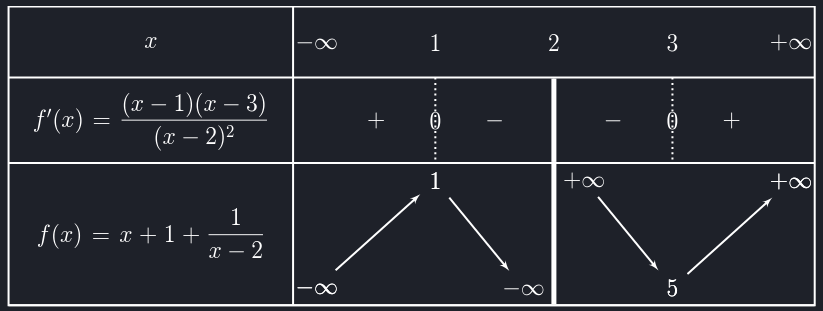
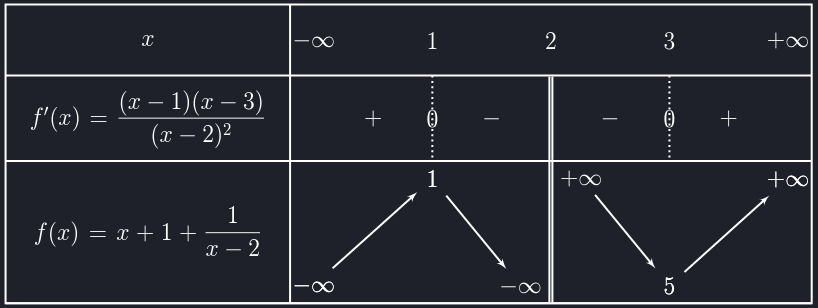
v1.0.6 Fix Forbidden Values Background Color in Dark Mode

diff --git a/src/index.js b/src/index.js
@@ -374,7 +374,7 @@ const createBrokenImageElement = () => {
 const createBrokenImage = () => {
     const wrapper = document.createElement('span');
 
-    wrapper.className = 'tikzjax-wrapper tikzjax-broken-wrapper';
+    wrapper.className = 'tikzjax-wrapper tikzjax-broken-wrapper mathjax_ignore';
 
     wrapper.style.display = 'block';
     wrapper.style.width = '100%';
@@ -422,6 +422,37 @@ const isWhiteValue = (value) => {
         v === 'rgb(255,255,255)' ||
         v === 'rgb(255, 255, 255)'
     );
+};
+
+const isTransparentValue = (value) => {
+    if (!value) return true;
+
+    const v = value.trim().toLowerCase();
+
+    return (
+        v === 'transparent' ||
+        v === 'initial' ||
+        v === 'inherit' ||
+        /^rgba\(\s*0\s*,\s*0\s*,\s*0\s*,\s*0(?:\.0+)?\s*\)$/.test(v) ||
+        /^rgba\(.*?,\s*0(?:\.0+)?\s*\)$/.test(v)
+    );
+};
+
+const getEffectiveBackgroundColor = (element, fallbackTheme = 'light') => {
+    let node = element;
+
+    while (node) {
+        const computed = window.getComputedStyle(node);
+        const backgroundColor = computed.backgroundColor;
+
+        if (backgroundColor && !isTransparentValue(backgroundColor)) {
+            return backgroundColor;
+        }
+
+        node = node.parentElement;
+    }
+
+    return fallbackTheme === 'dark' ? '#000000' : '#ffffff';
 };
 
 const isTextNode = (node) => {
@@ -475,6 +506,11 @@ const normalizeStyleForTheme = (styleText, node) => {
         );
     }
 
+    result = result.replace(
+        /stroke\s*:\s*(white|#ffffff|#fff|rgb\(255,\s*255,\s*255\))\b/gi,
+        'stroke: var(--tikzjax-background-color)'
+    );
+
     return result;
 };
 
@@ -506,6 +542,8 @@ const normalizeSvgForTheme = (svg) => {
 
                 if (isBlackValue(stroke)) {
                     node.setAttribute('stroke', 'currentColor');
+                } else if (isWhiteValue(stroke)) {
+                    node.setAttribute('stroke', 'var(--tikzjax-background-color)');
                 }
             }
 
@@ -658,9 +696,12 @@ const getThemeForWrapper = (wrapper) => {
 
 const applyThemeToTikz = (root = document) => {
     getTikzWrappers(root).forEach((wrapper) => {
-        const isDark = getThemeForWrapper(wrapper) === 'dark';
+        const theme = getThemeForWrapper(wrapper);
+        const isDark = theme === 'dark';
+        const backgroundColor = getEffectiveBackgroundColor(wrapper, theme);
 
         wrapper.style.color = isDark ? '#ffffff' : '#000000';
+        wrapper.style.setProperty('--tikzjax-background-color', backgroundColor);
 
         wrapper.querySelectorAll('svg').forEach((svg) => {
             normalizeSvgForTheme(svg);
@@ -945,7 +986,7 @@ const handleMkDocsTabsInteraction = (event) => {
 // =================================================
 const wrapSvg = (svg) => {
     const wrapper = document.createElement('span');
-    wrapper.className = 'tikzjax-wrapper';
+    wrapper.className = 'tikzjax-wrapper mathjax_ignore';
 
     wrapper.appendChild(svg);
 
@@ -1015,7 +1056,7 @@ const processTikzSources = async (sources) => {
         const loader = createLoader(elt.dataset || {});
 
         const wrapper = document.createElement('span');
-        wrapper.className = 'tikzjax-wrapper tikzjax-loading';
+        wrapper.className = 'tikzjax-wrapper tikzjax-loading mathjax_ignore';
         wrapper.style.display = 'inline-flex';
         wrapper.style.alignItems = 'center';
         wrapper.style.justifyContent = 'center';

diff --git a/site/docs/installation.md b/site/docs/installation.md
@@ -149,11 +149,13 @@ The page shows how to integrate on your custom project.
             - local/path/to/your/tikzjax.config.js
             ```
 
-### 2.2 `mkdocs.yml`: superfences
+### 2.2 `mkdocs.yml` & Superfences
 
 !!! success "Superfences Config for `tikzjax` bloc codes"
+    If you already added the 2/3 CDN config lines to your `main.html`, then :
+
     * TikZJax is already working with the `<script type="text/tikz">` syntax.
-    * However, if you wish to also use the `tikzjax` code block syntax inside MkDocs, then you MUST add a **superfences** entry in your `mkdocs.yml`:
+    * However, IF you also wish to use the `tikzjax` code block syntax inside MkDocs, then you MUST add a **superfences** entry in your `mkdocs.yml`. So, technically, Adding the following config lines for superfences in `mkdocs.yml` is OPTIONAL : TO BE ADDED ONLY IF YOU PLAN TO USE tikzjax code blocks inside markdown pages :
 
     ````yaml
     markdown_extensions:
@@ -166,9 +168,15 @@ The page shows how to integrate on your custom project.
 
 Hereafter are some config examples for `mkdocs.yml`, which all use an existing `overrides/main.html` file (if you have already none, otherwise, create it, you may customize your personal `custom_dir` in your `mkdocs.yml` as you wish):
 
-!!! warning
-    * Please note that, stricto sensu, the following extensions ARE NOT REQUIRED for the **TikZJax** project to work in MkDocs (which should work perfectly without those) :
-        * loading **MathJax** as CDN, IS NOT REQUIRED (math formulas should render correctly inside math variations tables and math sign tables, without MathJaX)
+!!! danger "Minimal `mkdocs.yml` & MathJax Conflicts"
+    * Please note that, stricto sensu, the following extensions ARE NOT REQUIRED for the **TikZJax** project to work in MkDocs :
+        * **MathJax** is **NOT REQUIRED** stricto sensu. Adding **MathJax** configs in `mkdocs.yml` **IS OPTIONAL AND TOTALLY INDEPENDANT** of [![Repo](https://img.shields.io/badge/GitHub-rod2ik%2Ftikzjax-181717?logo=github&logoColor=white)](https://github.com/rod2ik/tikzjax) : 
+            * Mathjax is for rendering Maths **OUTSIDE** maths variations/sign tables
+            * TikZJax is for rendering Maths **INSIDE** maths variations/sign tables
+            * Mathjax and TikZJax **config files** **ARE TOTALLY INDEPENDANT** of one another, and **DO NOT CONFLICT** because their config params are place in different JS objects (*window.MathJax* vs *window.TikzJaxOptions*)
+            * MathJax normally ignores `script`, `pre`, `code` tags, so there really should be no conflict with `<script type="text/tikz">...</script>` syntax.
+            TikZJax renderings have been isolated from MathJax renderings, via the addition of a `mathjax_ignore` class in TikZJax script tags, as the [MathsJax Documentation](https://docs.mathjax.org/en/v4.0/options/document.html) recommends: this prevents the TikZJax wrapper from being read by MathJax.
+
         * the following `markdown_extensions` ARE NOT REQUIRED : 
             * `admonition`, 
             * `pymdownx.details`,    (for Collapsible admonitions)